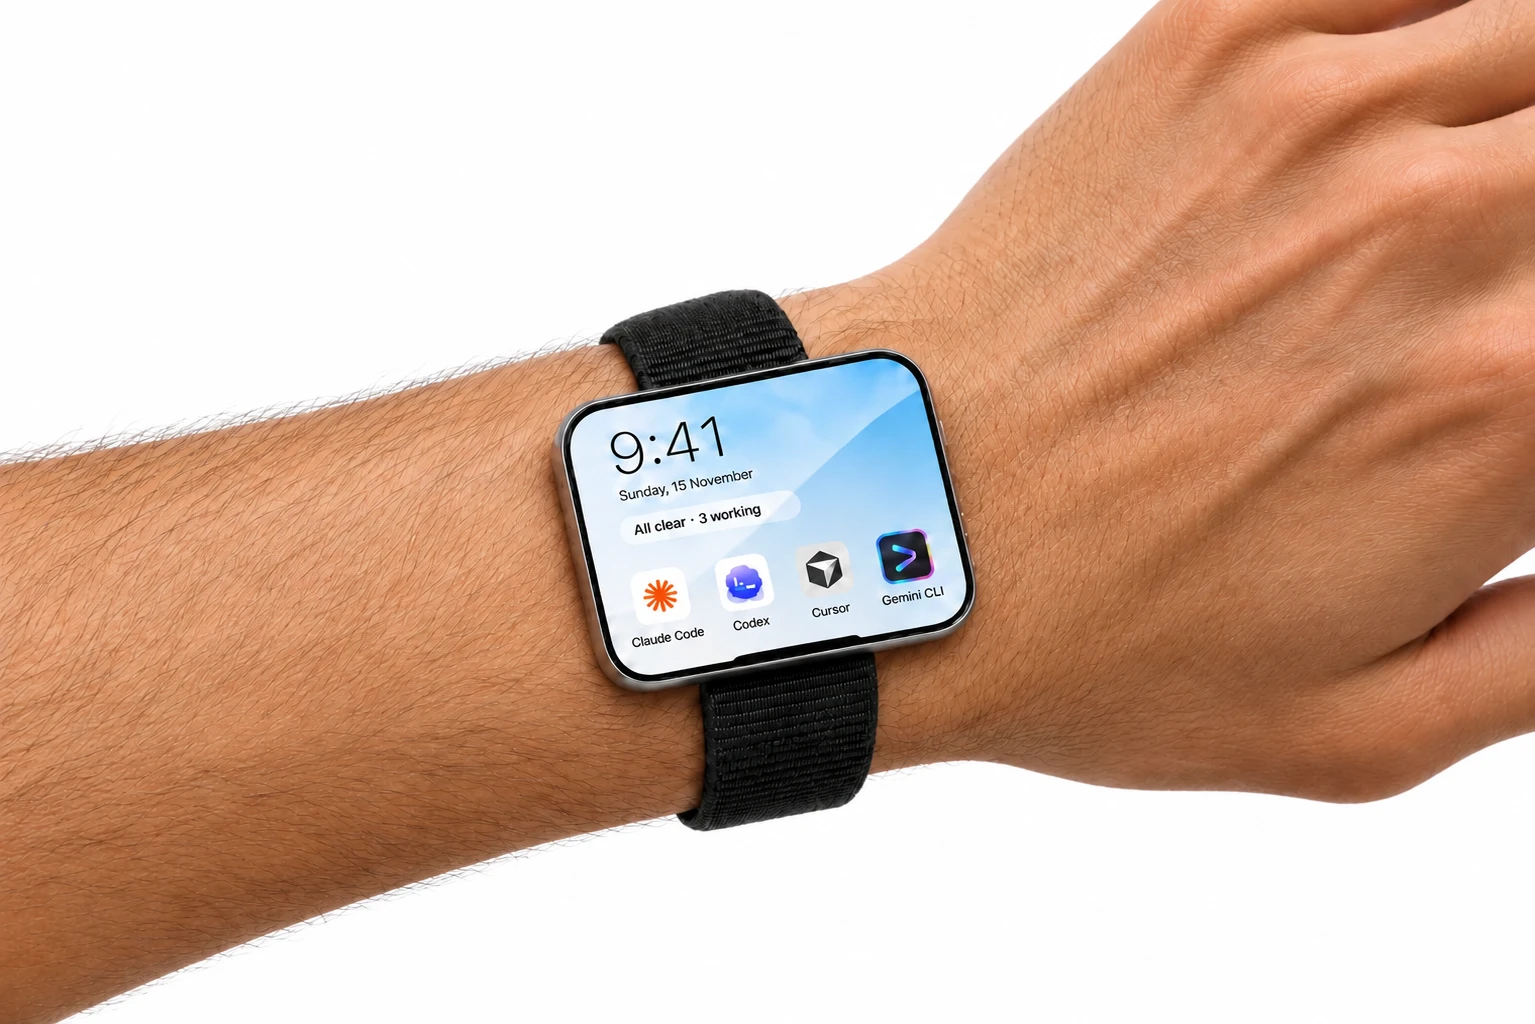
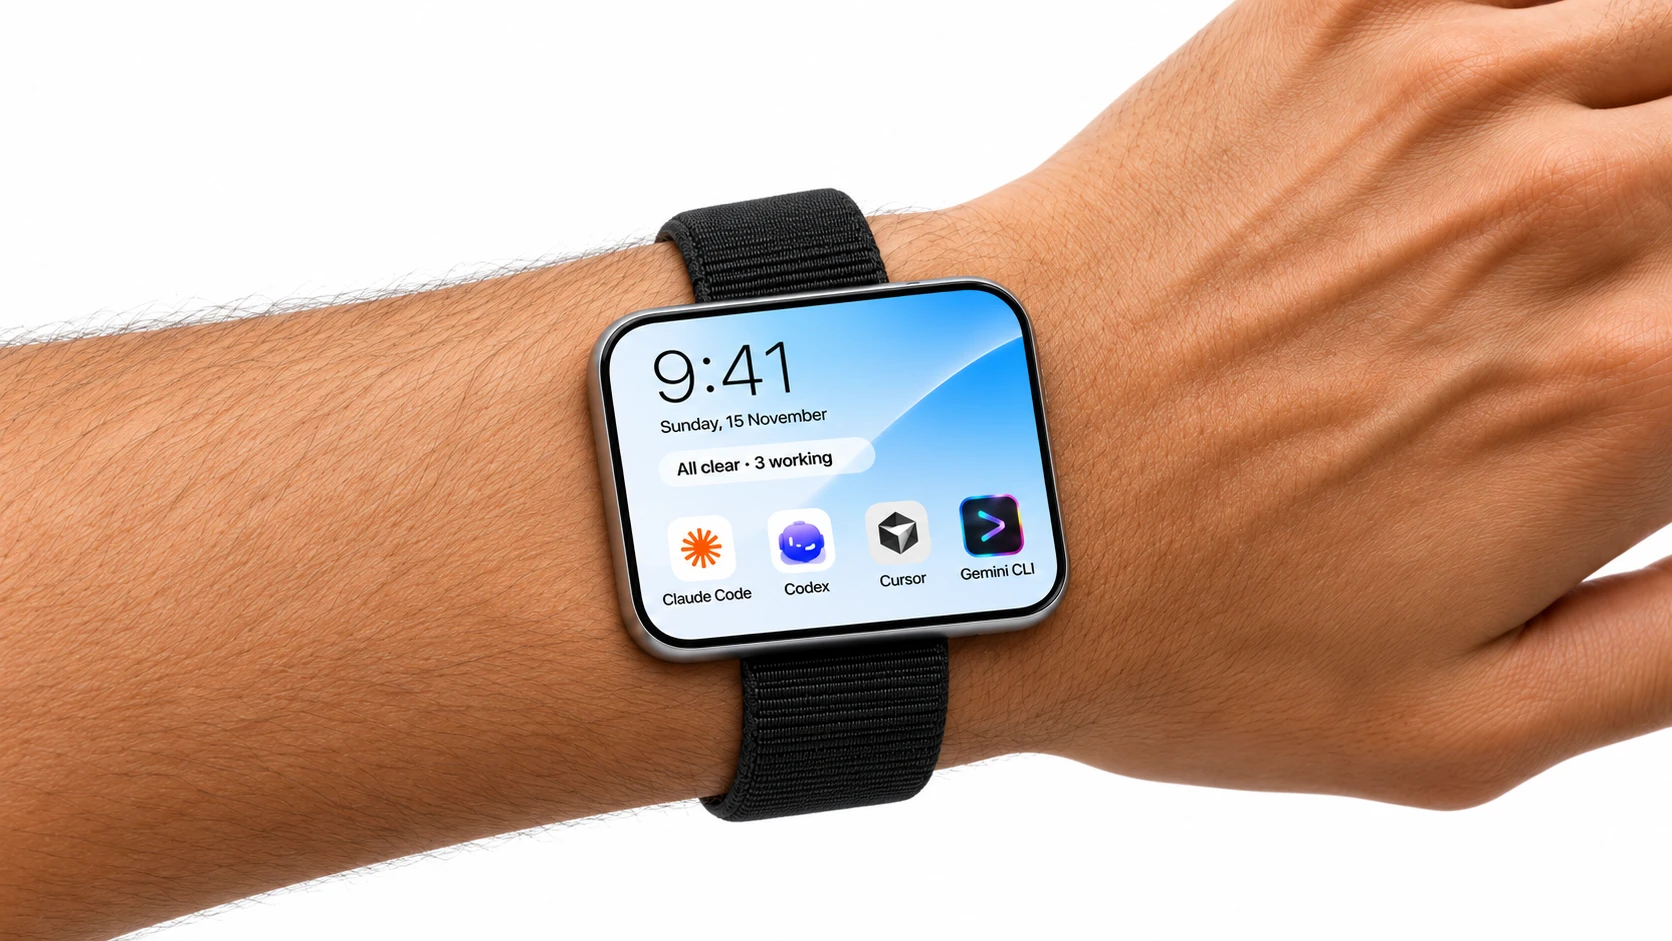
$129 pre-order, new wrist photo, softer hand photo, black voice bars
- Buttons and links say Pre-order; $129, pay nothing today; price lives in lib/launch.js
- FAQ and done screen updated for the free reservation
- New wrist photo; hand photo bigger with eased fades and a soft edge blur
- Voice bars on the 3D listening screen are near-black

Changed region(s): [[0.0, 0.0, 1.0, 1.0], [0.7961, 0.6164, 0.8573, 0.6472], [0.7655, 0.5547, 0.7961, 0.5855]]

diff --git a/app/globals.css b/app/globals.css
@@ -96,7 +96,20 @@ a { color: inherit; text-decoration: none; }
 
 .bleed { overflow: hidden; }
 .shot { width: 100%; height: auto; margin: clamp(24px, 3vw, 48px) auto 0; filter: brightness(1.01); }
-.shot-hand { max-width: 640px; -webkit-mask-image: linear-gradient(to bottom, rgba(0,0,0,1) 56%, rgba(0,0,0,0.991) 60.4%, rgba(0,0,0,0.942) 64.8%, rgba(0,0,0,0.837) 69.2%, rgba(0,0,0,0.683) 73.6%, rgba(0,0,0,0.5) 78%, rgba(0,0,0,0.317) 82.4%, rgba(0,0,0,0.163) 86.8%, rgba(0,0,0,0.058) 91.2%, rgba(0,0,0,0.009) 95.6%, rgba(0,0,0,0) 100%); mask-image: linear-gradient(to bottom, rgba(0,0,0,1) 56%, rgba(0,0,0,0.991) 60.4%, rgba(0,0,0,0.942) 64.8%, rgba(0,0,0,0.837) 69.2%, rgba(0,0,0,0.683) 73.6%, rgba(0,0,0,0.5) 78%, rgba(0,0,0,0.317) 82.4%, rgba(0,0,0,0.163) 86.8%, rgba(0,0,0,0.058) 91.2%, rgba(0,0,0,0.009) 95.6%, rgba(0,0,0,0) 100%); }
+.shot-hand { position: relative; max-width: 760px; margin: clamp(24px, 3vw, 48px) auto 0; }
+.shot-hand img {
+  width: 100%; height: auto; filter: brightness(1.01);
+  -webkit-mask-image: linear-gradient(to bottom, rgba(0,0,0,1) 52%, rgba(0,0,0,0.991) 56.8%, rgba(0,0,0,0.942) 61.6%, rgba(0,0,0,0.837) 66.4%, rgba(0,0,0,0.683) 71.2%, rgba(0,0,0,0.5) 76%, rgba(0,0,0,0.317) 80.8%, rgba(0,0,0,0.163) 85.6%, rgba(0,0,0,0.058) 90.4%, rgba(0,0,0,0.009) 95.2%, rgba(0,0,0,0) 100%), linear-gradient(to right, rgba(0,0,0,0) 0%, rgba(0,0,0,0.009) 1.2%, rgba(0,0,0,0.058) 2.4%, rgba(0,0,0,0.163) 3.6%, rgba(0,0,0,0.317) 4.8%, rgba(0,0,0,0.5) 6%, rgba(0,0,0,0.683) 7.2%, rgba(0,0,0,0.837) 8.4%, rgba(0,0,0,0.942) 9.6%, rgba(0,0,0,0.991) 10.8%, rgba(0,0,0,1) 12%, rgba(0,0,0,1) 88%, rgba(0,0,0,0.991) 89.2%, rgba(0,0,0,0.942) 90.4%, rgba(0,0,0,0.837) 91.6%, rgba(0,0,0,0.683) 92.8%, rgba(0,0,0,0.5) 94%, rgba(0,0,0,0.317) 95.2%, rgba(0,0,0,0.163) 96.4%, rgba(0,0,0,0.058) 97.6%, rgba(0,0,0,0.009) 98.8%, rgba(0,0,0,0) 100%);
+  -webkit-mask-composite: source-in;
+  mask-image: linear-gradient(to bottom, rgba(0,0,0,1) 52%, rgba(0,0,0,0.991) 56.8%, rgba(0,0,0,0.942) 61.6%, rgba(0,0,0,0.837) 66.4%, rgba(0,0,0,0.683) 71.2%, rgba(0,0,0,0.5) 76%, rgba(0,0,0,0.317) 80.8%, rgba(0,0,0,0.163) 85.6%, rgba(0,0,0,0.058) 90.4%, rgba(0,0,0,0.009) 95.2%, rgba(0,0,0,0) 100%), linear-gradient(to right, rgba(0,0,0,0) 0%, rgba(0,0,0,0.009) 1.2%, rgba(0,0,0,0.058) 2.4%, rgba(0,0,0,0.163) 3.6%, rgba(0,0,0,0.317) 4.8%, rgba(0,0,0,0.5) 6%, rgba(0,0,0,0.683) 7.2%, rgba(0,0,0,0.837) 8.4%, rgba(0,0,0,0.942) 9.6%, rgba(0,0,0,0.991) 10.8%, rgba(0,0,0,1) 12%, rgba(0,0,0,1) 88%, rgba(0,0,0,0.991) 89.2%, rgba(0,0,0,0.942) 90.4%, rgba(0,0,0,0.837) 91.6%, rgba(0,0,0,0.683) 92.8%, rgba(0,0,0,0.5) 94%, rgba(0,0,0,0.317) 95.2%, rgba(0,0,0,0.163) 96.4%, rgba(0,0,0,0.058) 97.6%, rgba(0,0,0,0.009) 98.8%, rgba(0,0,0,0) 100%);
+  mask-composite: intersect;
+}
+.shot-hand::after {
+  content: ''; position: absolute; inset: 0; pointer-events: none;
+  -webkit-backdrop-filter: blur(14px); backdrop-filter: blur(14px);
+  -webkit-mask-image: linear-gradient(to bottom, rgba(0,0,0,0) 50%, rgba(0,0,0,0.009) 54.6%, rgba(0,0,0,0.058) 59.2%, rgba(0,0,0,0.163) 63.8%, rgba(0,0,0,0.317) 68.4%, rgba(0,0,0,0.5) 73%, rgba(0,0,0,0.683) 77.6%, rgba(0,0,0,0.837) 82.2%, rgba(0,0,0,0.942) 86.8%, rgba(0,0,0,0.991) 91.4%, rgba(0,0,0,1) 96%), linear-gradient(to right, rgba(0,0,0,1) 0%, rgba(0,0,0,0.991) 1.2%, rgba(0,0,0,0.942) 2.4%, rgba(0,0,0,0.837) 3.6%, rgba(0,0,0,0.683) 4.8%, rgba(0,0,0,0.5) 6%, rgba(0,0,0,0.317) 7.2%, rgba(0,0,0,0.163) 8.4%, rgba(0,0,0,0.058) 9.6%, rgba(0,0,0,0.009) 10.8%, rgba(0,0,0,0) 12%, rgba(0,0,0,0) 88%, rgba(0,0,0,0.009) 89.2%, rgba(0,0,0,0.058) 90.4%, rgba(0,0,0,0.163) 91.6%, rgba(0,0,0,0.317) 92.8%, rgba(0,0,0,0.5) 94%, rgba(0,0,0,0.683) 95.2%, rgba(0,0,0,0.837) 96.4%, rgba(0,0,0,0.942) 97.6%, rgba(0,0,0,0.991) 98.8%, rgba(0,0,0,1) 100%);
+  mask-image: linear-gradient(to bottom, rgba(0,0,0,0) 50%, rgba(0,0,0,0.009) 54.6%, rgba(0,0,0,0.058) 59.2%, rgba(0,0,0,0.163) 63.8%, rgba(0,0,0,0.317) 68.4%, rgba(0,0,0,0.5) 73%, rgba(0,0,0,0.683) 77.6%, rgba(0,0,0,0.837) 82.2%, rgba(0,0,0,0.942) 86.8%, rgba(0,0,0,0.991) 91.4%, rgba(0,0,0,1) 96%), linear-gradient(to right, rgba(0,0,0,1) 0%, rgba(0,0,0,0.991) 1.2%, rgba(0,0,0,0.942) 2.4%, rgba(0,0,0,0.837) 3.6%, rgba(0,0,0,0.683) 4.8%, rgba(0,0,0,0.5) 6%, rgba(0,0,0,0.317) 7.2%, rgba(0,0,0,0.163) 8.4%, rgba(0,0,0,0.058) 9.6%, rgba(0,0,0,0.009) 10.8%, rgba(0,0,0,0) 12%, rgba(0,0,0,0) 88%, rgba(0,0,0,0.009) 89.2%, rgba(0,0,0,0.058) 90.4%, rgba(0,0,0,0.163) 91.6%, rgba(0,0,0,0.317) 92.8%, rgba(0,0,0,0.5) 94%, rgba(0,0,0,0.683) 95.2%, rgba(0,0,0,0.837) 96.4%, rgba(0,0,0,0.942) 97.6%, rgba(0,0,0,0.991) 98.8%, rgba(0,0,0,1) 100%);
+}
 .shot-wrist { width: 100vw; max-width: none; margin-left: calc(50% - 50vw); -webkit-mask-image: linear-gradient(to bottom, rgba(0,0,0,0) 0%, rgba(0,0,0,0.009) 1.4%, rgba(0,0,0,0.058) 2.8%, rgba(0,0,0,0.163) 4.2%, rgba(0,0,0,0.317) 5.6%, rgba(0,0,0,0.5) 7%, rgba(0,0,0,0.683) 8.4%, rgba(0,0,0,0.837) 9.8%, rgba(0,0,0,0.942) 11.2%, rgba(0,0,0,0.991) 12.6%, rgba(0,0,0,1) 14%, rgba(0,0,0,1) 90%, rgba(0,0,0,0.991) 91%, rgba(0,0,0,0.942) 92%, rgba(0,0,0,0.837) 93%, rgba(0,0,0,0.683) 94%, rgba(0,0,0,0.5) 95%, rgba(0,0,0,0.317) 96%, rgba(0,0,0,0.163) 97%, rgba(0,0,0,0.058) 98%, rgba(0,0,0,0.009) 99%, rgba(0,0,0,0) 100%); mask-image: linear-gradient(to bottom, rgba(0,0,0,0) 0%, rgba(0,0,0,0.009) 1.4%, rgba(0,0,0,0.058) 2.8%, rgba(0,0,0,0.163) 4.2%, rgba(0,0,0,0.317) 5.6%, rgba(0,0,0,0.5) 7%, rgba(0,0,0,0.683) 8.4%, rgba(0,0,0,0.837) 9.8%, rgba(0,0,0,0.942) 11.2%, rgba(0,0,0,0.991) 12.6%, rgba(0,0,0,1) 14%, rgba(0,0,0,1) 90%, rgba(0,0,0,0.991) 91%, rgba(0,0,0,0.942) 92%, rgba(0,0,0,0.837) 93%, rgba(0,0,0,0.683) 94%, rgba(0,0,0,0.5) 95%, rgba(0,0,0,0.317) 96%, rgba(0,0,0,0.163) 97%, rgba(0,0,0,0.058) 98%, rgba(0,0,0,0.009) 99%, rgba(0,0,0,0) 100%); }
 
 .faq { margin-top: clamp(40px, 5vw, 64px); border-bottom: 1px solid var(--line); }
@@ -112,6 +125,7 @@ a { color: inherit; text-decoration: none; }
 
 #final { padding-top: clamp(150px, 18vw, 270px); }
 #final .btn { margin-top: 28px; }
+.preorder-note { margin-top: 14px; font-size: 14px; }
 #final .photo-band { margin-top: clamp(40px, 5vw, 72px); }
 .photo-band { margin: 0 -24px; background: linear-gradient(to bottom, #fff, var(--photo) clamp(120px, 14vw, 220px)); }
 .photo-band-copy { position: relative; z-index: 1; padding: clamp(120px, 14vw, 200px) 24px 0; text-align: center; }

diff --git a/app/page.js b/app/page.js
@@ -2,14 +2,14 @@ import Nav from '@/components/Nav';
 import Footer from '@/components/Footer';
 import Reveal from '@/components/Reveal';
 import Showcase from '@/components/Showcase';
-import EarlyButton from '@/components/EarlyButton';
+import PreorderButton from '@/components/PreorderButton';
 import PhotoBand from '@/components/PhotoBand';
-import { LAUNCH_YEAR } from '@/lib/launch';
+import { LAUNCH_YEAR, PRICE } from '@/lib/launch';
 
 const FAQ = [
   ['What is Abble 1?', 'A glass screen for your AI coding agents, about the size of an SD card. When one needs a decision, Abble 1 shows you the question. Tap or speak your answer, and the agent gets back to work.'],
-  ['When does it launch?', `Abble 1 launches in ${LAUNCH_YEAR}. Early access members hear first.`],
-  ['What does early access cost?', 'Nothing. Tell us how you work with agents and we will keep you posted.'],
+  ['How much is Abble 1?', `${PRICE}. Pre-ordering is free: you pay nothing today, and we will confirm with you before it ships.`],
+  ['When does it launch?', `Abble 1 launches in ${LAUNCH_YEAR}. Pre-order members hear first.`],
   ['Which agents will it work with?', 'We are designing around Claude Code, Codex, Cursor and Gemini CLI. These are planned integrations, not finished ones.'],
   ['Do I have to wear it?', 'No. Keep it in a pocket, or snap it onto the optional woven strap.'],
   ['Are these photos of the real device?', 'Not yet. The images show a design concept. Size, display and strap may change before production.'],
@@ -28,12 +28,12 @@ export default function Home() {
 
         <section id="wear" className="sec center">
           <h2 className="h2">Pocket it.</h2>
-          <img className="shot shot-hand rv" src="/img/hand.webp" width={1199} height={1312} loading="lazy" alt="Abble 1 held between thumb and fingers" />
+          <div className="shot-hand rv"><img src="/img/hand.webp" width={1199} height={1312} loading="lazy" alt="Abble 1 held between thumb and fingers" /></div>
         </section>
 
         <section className="sec center bleed">
           <h2 className="h2">Or snap it on.</h2>
-          <img className="shot shot-wrist rv" src="/img/wrist.webp" width={1535} height={1024} loading="lazy" alt="Abble 1 worn on a black woven strap" />
+          <img className="shot shot-wrist rv" src="/img/wrist.webp" width={1672} height={941} loading="lazy" alt="Abble 1 worn on a black woven strap" />
         </section>
 
         <section id="faq" className="sec">
@@ -53,8 +53,9 @@ export default function Home() {
         <section id="final" className="sec">
           <div className="wrap center">
             <h2 className="h2">Be one of the first 100.</h2>
-            <p className="launch">Launching in {LAUNCH_YEAR}.</p>
-            <EarlyButton size="lg" />
+            <p className="launch">{PRICE} · Launching in {LAUNCH_YEAR}</p>
+            <PreorderButton size="lg" />
+            <p className="fine preorder-note">Pay nothing today.</p>
           </div>
           <PhotoBand id="belief">
             <h2 className="h2">Design first.<br />Engineering follows.</h2>

diff --git a/app/form/page.js b/app/form/page.js
@@ -1,6 +1,7 @@
 'use client';
 import { useEffect, useRef, useState } from 'react';
 import Logo from '@/components/Logo';
+import { PRICE } from '@/lib/launch';
 
 const KEYS = 'ABCDEFGHIJ';
 
@@ -129,8 +130,8 @@ export default function FormPage() {
         <main className="fp-main">
           <div className="fp-step">
             <a className="fp-mark" href="/" aria-label="Abble home"><Logo /></a>
-            <h1 className="fp-q">You’re on the list{first ? `, ${first}` : ''}.</h1>
-            <p className="fp-help">Thank you for helping shape Abble 1. We’ll be in touch soon.</p>
+            <h1 className="fp-q">You’re in{first ? `, ${first}` : ''}.</h1>
+            <p className="fp-help">Your Abble 1 is reserved at {PRICE}. Pay nothing today. We’ll be in touch before it ships.</p>
             <a className="btn btn-lg fp-home" href="/">Back to home</a>
           </div>
         </main>
@@ -143,7 +144,7 @@ export default function FormPage() {
     <div className="fp">
       <main className="fp-main">
         <div className="fp-step" key={s.key}>
-          <a className="product fp-product" href="/">Abble 1</a>
+          <a className="product fp-product" href="/">Pre-order Abble 1 · {PRICE}</a>
           <h1 className="fp-q"><label htmlFor={isText ? `f-${s.key}` : undefined}>{s.q}</label></h1>
 
           {isText ? (

diff --git a/app/layout.js b/app/layout.js
@@ -2,7 +2,7 @@ import '@fontsource-variable/google-sans-flex';
 import './globals.css';
 
 const title = 'Abble 1';
-const description = 'Abble 1 is a glass screen for your AI coding agents, about the size of an SD card. One question, one answer, back to your day. Launching in 2027.';
+const description = 'Abble 1 is a glass screen for your AI coding agents, about the size of an SD card. One question, one answer, back to your day. Pre-order for $129. Launching in 2027.';
 
 export const metadata = {
   metadataBase: new URL(process.env.NEXT_PUBLIC_SITE_URL || 'https://abble.si'),

diff --git a/components/screens.js b/components/screens.js
@@ -1,7 +1,6 @@
 const FONT = "'Helvetica Neue',Helvetica,-apple-system,BlinkMacSystemFont,Arial,sans-serif";
 const INK = '#1d1d1f';
 const GREY = '#6e6e73';
-const BLUE = '#0071e3';
 
 export const AGENT_KEYS = ['claude', 'codex', 'cursor', 'gemini-cli'];
 
@@ -119,7 +118,7 @@ function talk(ctx, W, H, t, icons) {
     const amp = b * (0.4 + 0.6 * Math.abs(Math.sin(t * 4.6 + i * 0.85)));
     const h = 26 + amp * 124;
     round(ctx, x, 300 - h / 2, bw, h, bw / 2);
-    ctx.fillStyle = BLUE;
+    ctx.fillStyle = INK;
     ctx.fill();
     x += bw + gap;
   });

diff --git a/components/Footer.js b/components/Footer.js
@@ -5,7 +5,7 @@ export default function Footer() {
         <div className="foot-links">
           <a href="/story">Our story</a>
           <a href="/#faq">FAQ</a>
-          <a href="/form">Get early access</a>
+          <a href="/form">Pre-order</a>
         </div>
         <p className="fine">Images show a design concept. Size, display and strap may change before production. Agent names and icons belong to their owners and are shown as planned integrations.</p>
         <div className="foot-row">

diff --git a/components/Nav.js b/components/Nav.js
@@ -1,4 +1,4 @@
-import EarlyButton from '@/components/EarlyButton';
+import PreorderButton from '@/components/PreorderButton';
 import Logo from '@/components/Logo';
 
 export default function Nav() {
@@ -13,7 +13,7 @@ export default function Nav() {
           <a href="/#wear">Design</a>
           <a href="/story">Our story</a>
         </div>
-        <EarlyButton size="nav" />
+        <PreorderButton size="nav" />
       </nav>
     </header>
   );

diff --git a/components/PreorderButton.js b/components/PreorderButton.js
@@ -1,0 +1,7 @@
+export default function PreorderButton({ size = 'nav' }) {
+  return (
+    <a className={`btn btn-${size}`} href="/form">
+      Pre-order
+    </a>
+  );
+}

diff --git a/lib/launch.js b/lib/launch.js
@@ -1,1 +1,2 @@
 export const LAUNCH_YEAR = 2027;
+export const PRICE = '$129';

diff --git a/README.md b/README.md
@@ -1,6 +1,6 @@
 # Abble
 
-Launch site for Abble 1. Next.js App Router on Vercel, with a scroll-driven 3D device and an early access form that writes to a Google Sheet.
+Launch site for Abble 1. Next.js App Router on Vercel, with a scroll-driven 3D device and a pre-order form that writes to a Google Sheet.
 
 ## Run
 
@@ -13,9 +13,9 @@ npm run dev
 
 ```
 app/
-  page.js            home: 3D showcase, wear, FAQ, early access
+  page.js            home: 3D showcase, wear, FAQ, pre-order
   story/page.js      our story
-  form/page.js       early access form, one question per screen
+  form/page.js       pre-order form, one question per screen
   api/early/route.js forwards sign-ups to the Google Sheet
   layout.js          metadata and font
   globals.css        all styles
@@ -23,8 +23,8 @@ components/
   Showcase.js        pinned hero and scroll story around the 3D device
   Device3D.js        three.js model of Abble 1
   screens.js         device screens drawn on canvas
-  Nav.js, Footer.js, EarlyButton.js, PhotoBand.js, Reveal.js
-lib/launch.js        launch year
+  Nav.js, Footer.js, PreorderButton.js, PhotoBand.js, Reveal.js
+lib/launch.js        launch year and price
 public/img/          hero, hand and wrist photos
 public/brand/        agent icons shown on the device screens
 apps-script/Code.gs  Google Apps Script that appends rows to the sheet
